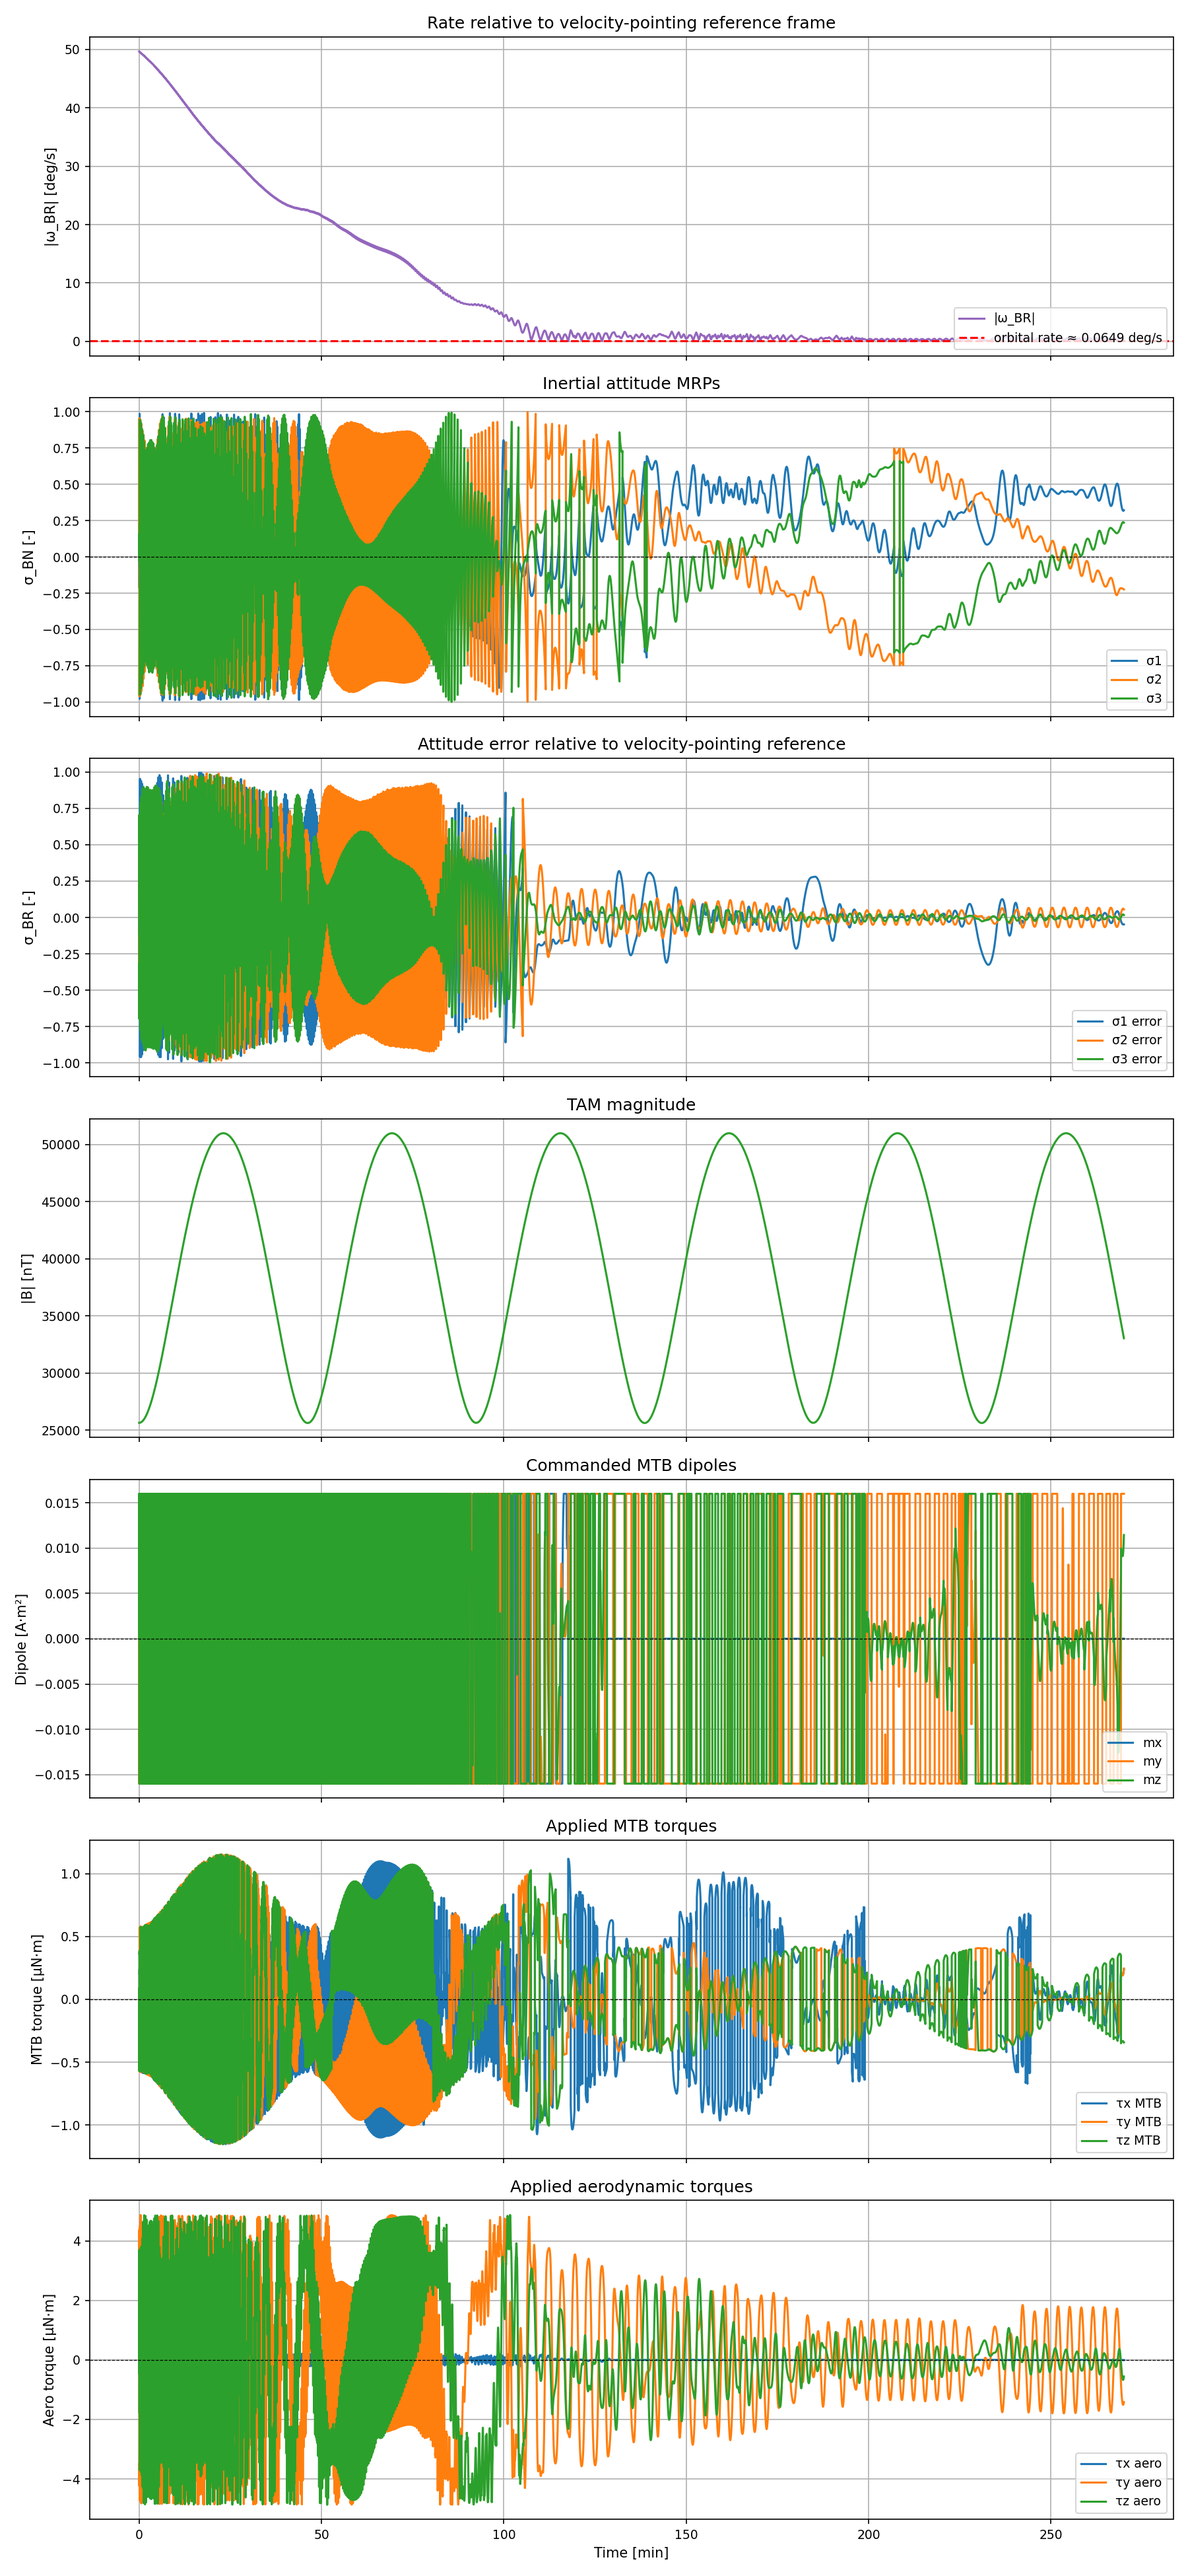
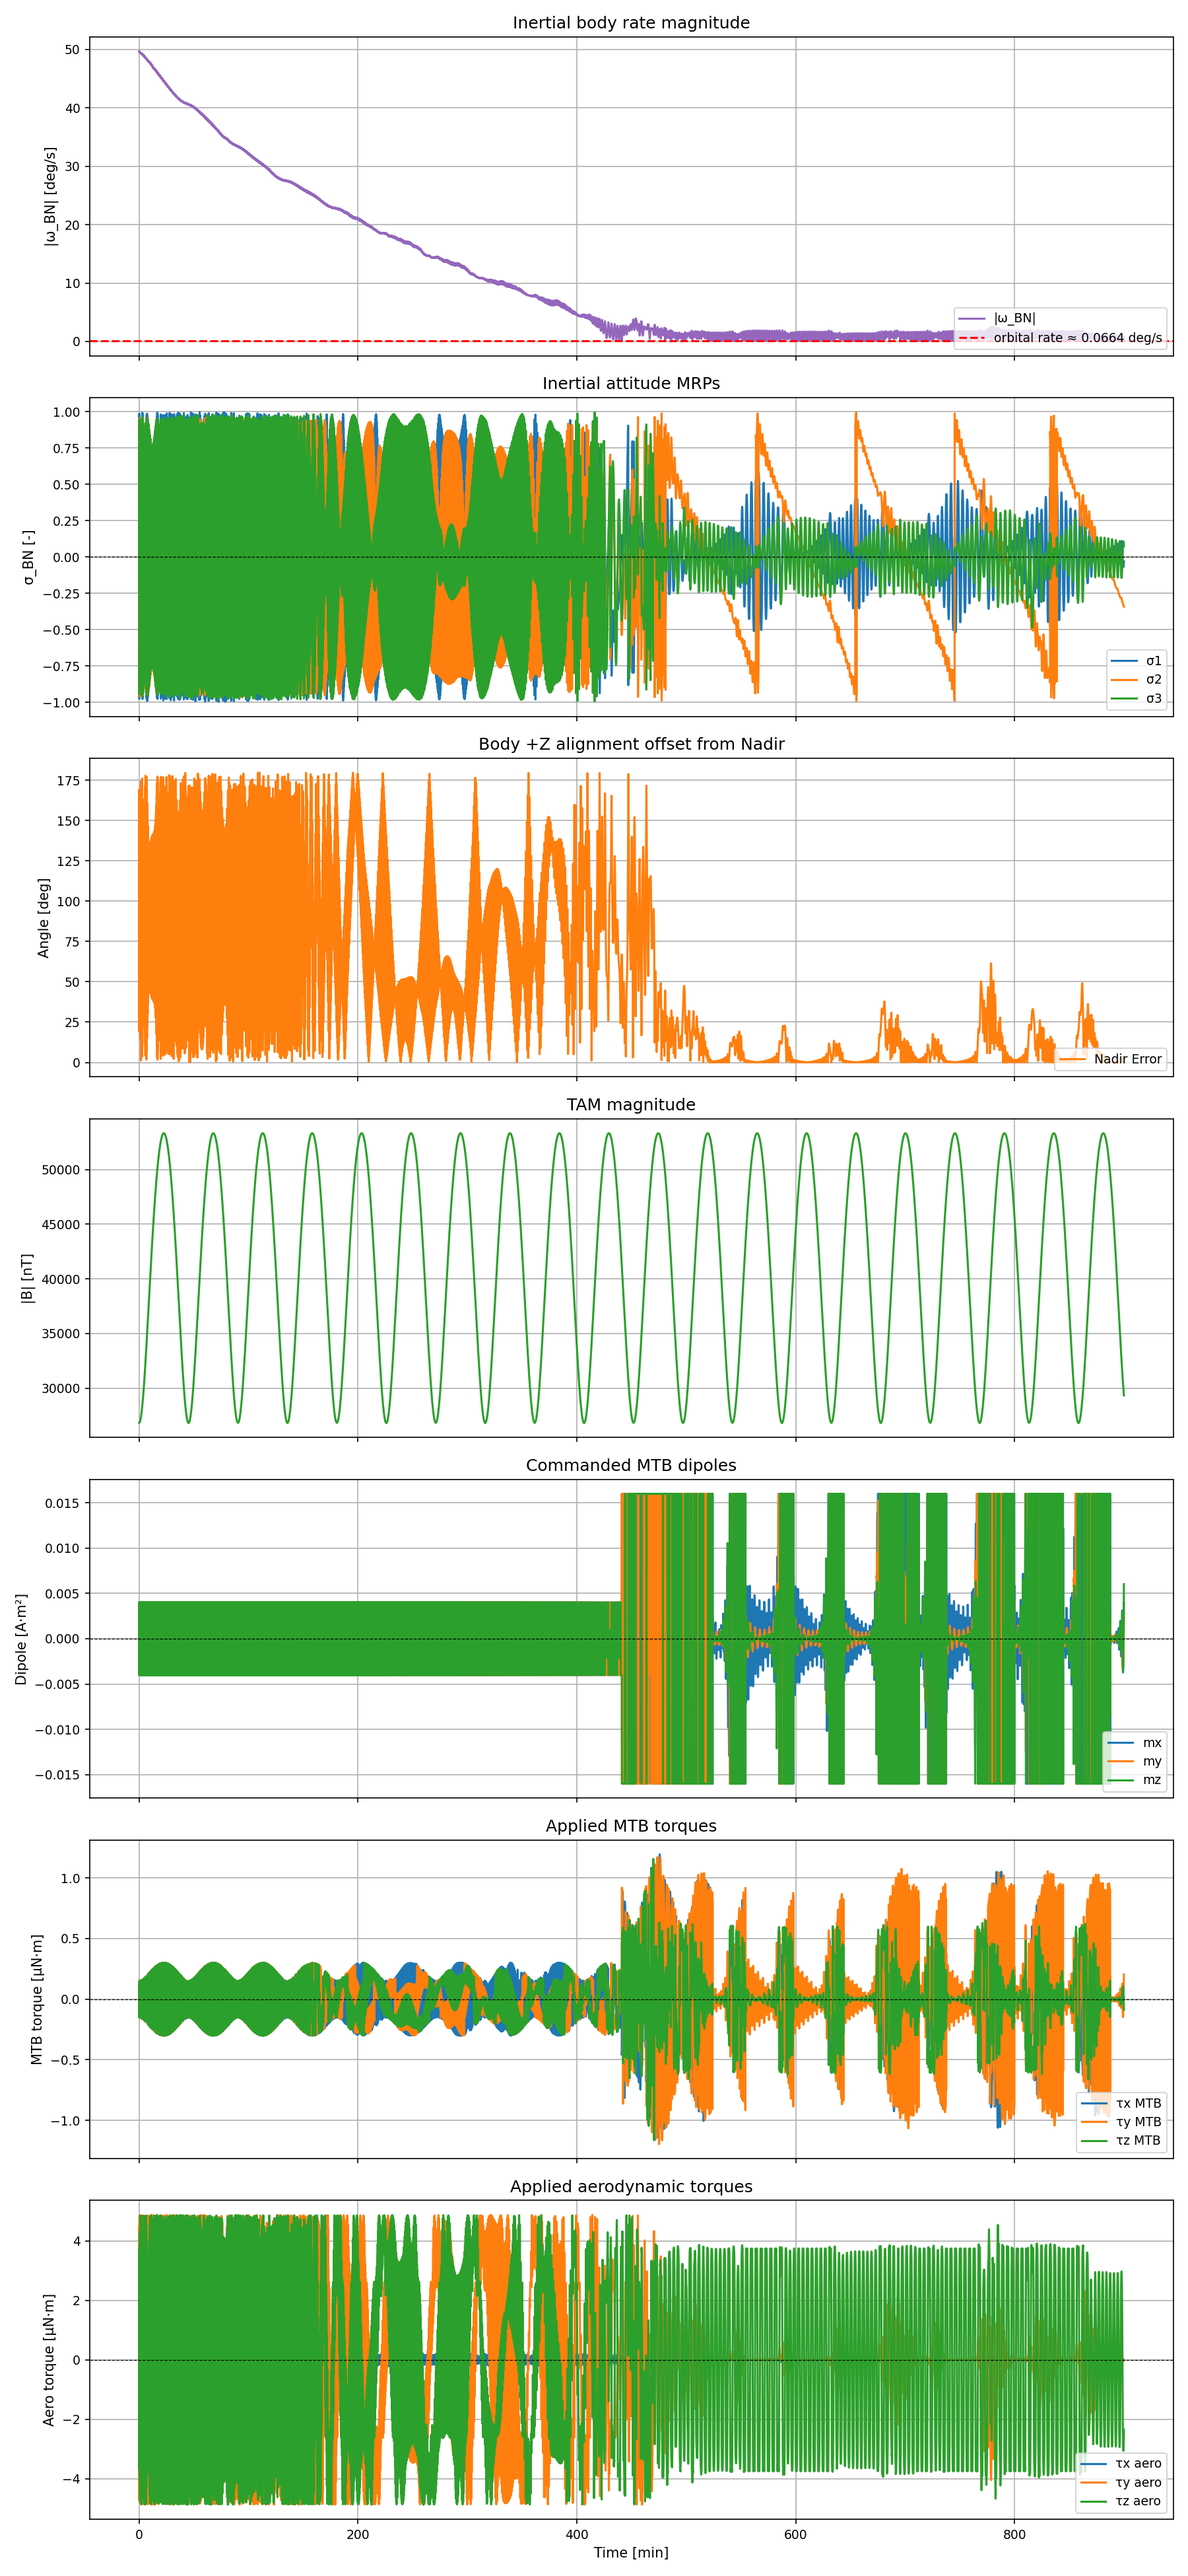
Nadir pointing no EHS yet

diff --git a/scenario_minimal_onefile.py b/scenario_minimal_onefile.py
@@ -36,87 +36,66 @@ from Basilisk.architecture import messaging, sysModel, bskLogging
 PROJECT_ROOT = Path(__file__).resolve().parent
 
 
-class VelocityPointingReference(sysModel.SysModel):
+class NadirPDControl(sysModel.SysModel):
     """
-    Velocity-pointing reference frame generator.
+    Nadir pointing control using cross product error.
 
-    Reference frame R:
-    - +X_R: velocity direction (ram)
-    - +Z_R: orbit normal (h = r × v)
-    - +Y_R: Z_R × X_R (completes right-handed frame, ~radially inward)
+    Calculates roll and pitch error by comparing a chosen body axis (e3) 
+    with the Nadir vector (n_B) in the body frame.
+    Control Law: tau = -Kp * (e3 x n_B) - Kd * omega_B
     """
-
     def __init__(self):
         super().__init__()
-        self.ModelTag = "VelocityPointing"
+        self.ModelTag = "NadirPDControl"
 
         self.transNavInMsg = messaging.NavTransMsgReader()
-        self.attRefOutMsg = messaging.AttRefMsg()
+        self.attNavInMsg = messaging.NavAttMsgReader()
+        self.cmdTorqueOutMsg = messaging.CmdTorqueBodyMsg()
 
-    def Reset(self, currentTime):
-        if not self.transNavInMsg.isLinked():
-            bskLogging.bskLog(
-                bskLogging.BSK_ERROR,
-                f"{self.ModelTag}.transNavInMsg is not linked."
-            )
+        self.Kp = 0.005  # Proportional gain
+        self.Kd = 0.01   # Derivative gain
+        self.align_axis = np.array([0.0, 0.0, 1.0])  # Body axis to point at Nadir
 
-        attRefOut = messaging.AttRefMsgPayload()
-        attRefOut.sigma_RN = [0.0, 0.0, 0.0]
-        attRefOut.omega_RN_N = [0.0, 0.0, 0.0]
-        attRefOut.domega_RN_N = [0.0, 0.0, 0.0]
-        self.attRefOutMsg.write(attRefOut, self.moduleID, currentTime)
+    def Reset(self, CurrentSimNanos):
+        payload = self.cmdTorqueOutMsg.zeroMsgPayload
+        self.cmdTorqueOutMsg.write(payload, CurrentSimNanos, self.moduleID)
 
-    def UpdateState(self, currentTime):
-        if not self.transNavInMsg.isWritten():
+    def UpdateState(self, CurrentSimNanos):
+        if not self.transNavInMsg.isWritten() or not self.attNavInMsg.isWritten():
             return
 
-        navData = self.transNavInMsg()
-
-        r_BN_N = np.array(navData.r_BN_N, dtype=float)
-        v_BN_N = np.array(navData.v_BN_N, dtype=float)
+        r_BN_N = np.array(self.transNavInMsg().r_BN_N, dtype=float)
+        v_BN_N = np.array(self.transNavInMsg().v_BN_N, dtype=float)
+        sigma_BN = np.array(self.attNavInMsg().sigma_BN, dtype=float)
+        omega_BN_B = np.array(self.attNavInMsg().omega_BN_B, dtype=float)
 
         r_mag = np.linalg.norm(r_BN_N)
-        v_mag = np.linalg.norm(v_BN_N)
-
-        if r_mag < 1e-6 or v_mag < 1e-6:
-            attRefOut = messaging.AttRefMsgPayload()
-            attRefOut.sigma_RN = [0.0, 0.0, 0.0]
-            attRefOut.omega_RN_N = [0.0, 0.0, 0.0]
-            attRefOut.domega_RN_N = [0.0, 0.0, 0.0]
-            self.attRefOutMsg.write(attRefOut, self.moduleID, currentTime)
+        if r_mag < 1e-6:
             return
 
-        # Reference frame R with +X along velocity
-        x_R_N = v_BN_N / v_mag  # velocity direction
+        # Nadir vector in inertial frame (towards Earth center)
+        nadir_N = -r_BN_N / r_mag
 
-        # Orbit normal
-        h_vec = np.cross(r_BN_N, v_BN_N)
-        h_mag = np.linalg.norm(h_vec)
-        if h_mag < 1e-10:
-            z_R_N = np.array([0.0, 0.0, 1.0])
-        else:
-            z_R_N = h_vec / h_mag
+        # Convert Nadir vector to body frame
+        C_BN = np.array(rbk.MRP2C(sigma_BN))
+        nadir_B = C_BN @ nadir_N # [-sin roll cos pitch ; sin pitch; 0] change once earth horizo
 
-        # Complete right-handed frame
-        y_R_N = np.cross(z_R_N, x_R_N)
-        y_R_N = y_R_N / np.linalg.norm(y_R_N)
+        # Cross product error (e3 x n) gives the rotation axis to align e3 with n
+        error_vec = np.cross(self.align_axis, nadir_B)
 
-        # DCM from inertial to reference frame
-        C_RN = np.vstack([x_R_N, y_R_N, z_R_N])
-        sigma_RN = rbk.C2MRP(C_RN)
+        # Calculate rotating frame rate to damp relative, not inertial, rotation
+        h_N = np.cross(r_BN_N, v_BN_N)
+        omega_RN_N = h_N / (r_mag**2) # Orbital rate vector
+        omega_RN_B = C_BN @ omega_RN_N
+        omega_err_B = omega_BN_B - omega_RN_B
 
-        # Angular velocity of reference frame
-        # omega_RN = d(C_RN)/dt * C_NR^T
-        # For circular orbit approximation: omega is along h direction
-        omega_orb = v_mag / r_mag  # approximate orbital rate
-        omega_RN_N = omega_orb * z_R_N
+        # Control torque (PD law)
+        # Note: +Kp is used because e3 x n points in the direction we need to torque
+        tau = self.Kp * error_vec - self.Kd * omega_err_B
 
-        attRefOut = messaging.AttRefMsgPayload()
-        attRefOut.sigma_RN = sigma_RN.tolist()
-        attRefOut.omega_RN_N = omega_RN_N.tolist()
-        attRefOut.domega_RN_N = [0.0, 0.0, 0.0]
-
-        self.attRefOutMsg.write(attRefOut, self.moduleID, currentTime)
+        payload = self.cmdTorqueOutMsg.zeroMsgPayload
+        payload.torqueRequestBody = tau.tolist()
+        self.cmdTorqueOutMsg.write(payload, CurrentSimNanos, self.moduleID)
 
 
 class SimpleMagneticField(sysModel.SysModel):
@@ -428,7 +407,7 @@ class AeroTorqueFromTable(sysModel.SysModel):
 
 def run_adcs_sim():
     sim_dt = 0.1
-    stop_time = 3*5400.0
+    stop_time = 10*5400.0
 
     scSim = SimulationBaseClass.SimBaseClass()
     simProcessName = "simProcess"
@@ -465,7 +444,7 @@ def run_adcs_sim():
 
     # Define orbital elements for Sun-synchronous LEO orbit
     oe = orbitalMotion.ClassicElements()
-    oe.a = 6771000.0  # Semi-major axis [m] (~400 km altitude)
+    oe.a = 6671000.0  # Semi-major axis [m] (~400 km altitude)
     oe.e = 0.0001  # Eccentricity (near-circular)
     oe.i = 97.0 * macros.D2R  # Inclination [rad] (sun-synchronous)
     oe.Omega = 0.0  # Right ascension of ascending node [rad]
@@ -551,7 +530,7 @@ def run_adcs_sim():
     bdot = SimpleBdot()
     bdot.ModelTag = "Bdot"
     bdot.k_gain = 1e6
-    bdot.maxDipole = 0.016
+    bdot.maxDipole = 0.004
     bdot.dt = sim_dt
     bdot.tamInMsg.subscribeTo(TAM.tamDataOutMsg)
     scSim.AddModelToTask(simTaskName, bdot, 80)
@@ -565,46 +544,24 @@ def run_adcs_sim():
     scSim.AddModelToTask(simTaskName, simpleNavModule, 91)
 
     # ------------------------------------------------------------------
-    # VELOCITY-POINTING REFERENCE
+    # NADIR PD CONTROL
     # ------------------------------------------------------------------
-    velPointModule = VelocityPointingReference()
-    velPointModule.ModelTag = "VelocityPointing"
-    velPointModule.transNavInMsg.subscribeTo(simpleNavModule.transOutMsg)
-    scSim.AddModelToTask(simTaskName, velPointModule, 89)
-
-    trackingError = attTrackingError.attTrackingError()
-    trackingError.ModelTag = "attTrackingError"
-    trackingError.attRefInMsg.subscribeTo(velPointModule.attRefOutMsg)
-    trackingError.attNavInMsg.subscribeTo(simpleNavModule.attOutMsg)
-    scSim.AddModelToTask(simTaskName, trackingError, 88)
-
-    # MRP feedback control for 3-axis attitude control
-    mrpControl = mrpFeedback.mrpFeedback()
-    mrpControl.ModelTag = "mrpFeedback"
-    mrpControl.K = 0.01  # Derivative gain [N*m*s] (damping)
-    mrpControl.P = 0.005  # Proportional gain [N*m] (stiffness)
-    mrpControl.Ki = 0.0001  # Integral gain [N*m/s] (bias rejection)
-    mrpControl.integralLimit = 2.0 / 180.0 * np.pi  # 2 deg integral windup limit [rad]
-    mrpControl.guidInMsg.subscribeTo(trackingError.attGuidOutMsg)
-
-    vcMsg = messaging.VehicleConfigMsg()
-    vcData = messaging.VehicleConfigMsgPayload()
-    vcData.ISCPntB_B = [
-        0.0015, 0.0, 0.0,
-        0.0, 0.0062, 0.0,
-        0.0, 0.0, 0.0062
-    ]
-    vcMsg.write(vcData)
-    mrpControl.vehConfigInMsg.subscribeTo(vcMsg)
-    scSim.AddModelToTask(simTaskName, mrpControl, 87)
+    nadirControl = NadirPDControl()
+    nadirControl.ModelTag = "NadirPDControl"
+    nadirControl.Kp = 0.005  # Proportional gain [N*m]
+    nadirControl.Kd = 0.01   # Derivative gain [N*m*s]
+    nadirControl.align_axis = np.array([0.0, 0.0, 1.0])  # Body Z-axis pointing at Nadir
+    nadirControl.transNavInMsg.subscribeTo(simpleNavModule.transOutMsg)
+    nadirControl.attNavInMsg.subscribeTo(simpleNavModule.attOutMsg)
+    scSim.AddModelToTask(simTaskName, nadirControl, 89)
 
     magMomentumCtrl = MagneticMomentumManagement()
     magMomentumCtrl.ModelTag = "MagMomentum"
     magMomentumCtrl.maxDipole = 0.016
-    # Disable X-axis dipole, enable Y+Z dipoles to avoid interfering with primary control axis
-    magMomentumCtrl.activeAxes = [False, True, True]  # [X, Y, Z]
+    # Disable/enable dipoles
+    magMomentumCtrl.activeAxes = [True, True, True]  # [X, Y, Z]
     magMomentumCtrl.tamInMsg.subscribeTo(TAM.tamDataOutMsg)
-    magMomentumCtrl.cmdTorqueInMsg.subscribeTo(mrpControl.cmdTorqueOutMsg)
+    magMomentumCtrl.cmdTorqueInMsg.subscribeTo(nadirControl.cmdTorqueOutMsg)
     scSim.AddModelToTask(simTaskName, magMomentumCtrl, 85)
 
     # ------------------------------------------------------------------
@@ -630,9 +587,7 @@ def run_adcs_sim():
     tamLog = TAM.tamDataOutMsg.recorder()
     mtbLog = MTB.mtbOutMsg.recorder()
     bdotLog = bdot.cmdOutMsg.recorder()
-    velRefLog = velPointModule.attRefOutMsg.recorder()
-    trackingErrLog = trackingError.attGuidOutMsg.recorder()
-    mrpLog = mrpControl.cmdTorqueOutMsg.recorder()
+    controlLog = nadirControl.cmdTorqueOutMsg.recorder()
     nadirLog = magMomentumCtrl.cmdOutMsg.recorder()
     modeLog = modeSwitch.cmdOutMsg.recorder()
     aeroLog = aeroTorque.cmdTorqueOutMsg.recorder()
@@ -641,14 +596,12 @@ def run_adcs_sim():
     scSim.AddModelToTask(simTaskName, tamLog)
     scSim.AddModelToTask(simTaskName, mtbLog)
     scSim.AddModelToTask(simTaskName, bdotLog)
-    scSim.AddModelToTask(simTaskName, velRefLog)
-    scSim.AddModelToTask(simTaskName, trackingErrLog)
-    scSim.AddModelToTask(simTaskName, mrpLog)
+    scSim.AddModelToTask(simTaskName, controlLog)
     scSim.AddModelToTask(simTaskName, nadirLog)
     scSim.AddModelToTask(simTaskName, modeLog)
     scSim.AddModelToTask(simTaskName, aeroLog)
 
-    from Basilisk.utilities import vizSupport
+    from Basilisk.utilities import vizSupport 
 
     # viz = vizSupport.enableUnityVisualization(
     #     scSim,
@@ -672,11 +625,19 @@ def run_adcs_sim():
     omega_BN_B = np.array(scLog.omega_BN_B)
     omega_BN_mag = np.linalg.norm(omega_BN_B, axis=1)
 
-    omega_BR_B = np.array(trackingErrLog.omega_BR_B)
-    omega_BR_mag = np.linalg.norm(omega_BR_B, axis=1)
-
     sigma_BN = np.array(scLog.sigma_BN)
-    sigma_BR = np.array(trackingErrLog.sigma_BR)
+    r_BN_N = np.array(scLog.r_BN_N)
+
+    # Calculate nadir tracking error (angle between body z-axis and literal moving nadir)
+    body_z_to_nadir_deg = np.zeros(len(sigma_BN))
+    for i in range(len(sigma_BN)):
+        rN = r_BN_N[i]
+        r_mag = np.linalg.norm(rN)
+        if r_mag > 1e-6:
+            nadir_N = -rN / r_mag
+            C_BN = np.array(rbk.MRP2C(sigma_BN[i]))
+            nadir_B = C_BN @ nadir_N
+            body_z_to_nadir_deg[i] = np.degrees(np.arccos(np.clip(nadir_B[2], -1.0, 1.0)))
 
     B_tam_S_nT = np.array(tamLog.tam_S) * 1e9
     dipole_cmd = np.array(modeLog.mtbDipoleCmds)
@@ -692,12 +653,12 @@ def run_adcs_sim():
     # ------------------------------------------------------------------
     fig, axes = plt.subplots(7, 1, figsize=(12, 26), sharex=True)
 
-    # Plot 0: Body rate relative to velocity-pointing reference frame
-    axes[0].plot(time_min, omega_BR_mag * macros.R2D, color='tab:purple', label='|ω_BR|')
+    # Plot 0: Body rate
+    axes[0].plot(time_min, omega_BN_mag * macros.R2D, color='tab:purple', label='|ω_BN|')
     axes[0].axhline(n_orbital * macros.R2D, color='r', linestyle='--',
                     label=f'orbital rate ≈ {n_orbital * macros.R2D:.4f} deg/s')
-    axes[0].set_ylabel('|ω_BR| [deg/s]')
-    axes[0].set_title('Rate relative to velocity-pointing reference frame')
+    axes[0].set_ylabel('|ω_BN| [deg/s]')
+    axes[0].set_title('Inertial body rate magnitude')
     axes[0].legend()
     axes[0].grid(True)
 
@@ -711,12 +672,10 @@ def run_adcs_sim():
     axes[1].legend()
     axes[1].grid(True)
 
-    # Plot 2: Attitude error relative to velocity-pointing reference
-    axes[2].plot(time_min, sigma_BR[:, 0], label='σ1 error')
-    axes[2].plot(time_min, sigma_BR[:, 1], label='σ2 error')
-    axes[2].plot(time_min, sigma_BR[:, 2], label='σ3 error')
-    axes[2].set_ylabel('σ_BR [-]')
-    axes[2].set_title('Attitude error relative to velocity-pointing reference')
+    # Plot 2: Nadir pointing error
+    axes[2].plot(time_min, body_z_to_nadir_deg, color='tab:orange', label='Nadir Error')
+    axes[2].set_ylabel('Angle [deg]')
+    axes[2].set_title('Body +Z alignment offset from Nadir')
     axes[2].legend()
     axes[2].grid(True)
 
@@ -770,9 +729,7 @@ def run_adcs_sim():
         "nadirLog": nadirLog,
         "modeLog": modeLog,
         "aeroLog": aeroLog,
-        "velRefLog": velRefLog,
-        "trackingErrLog": trackingErrLog,
-        "mrpLog": mrpLog
+        "controlLog": controlLog
     }
 
 
